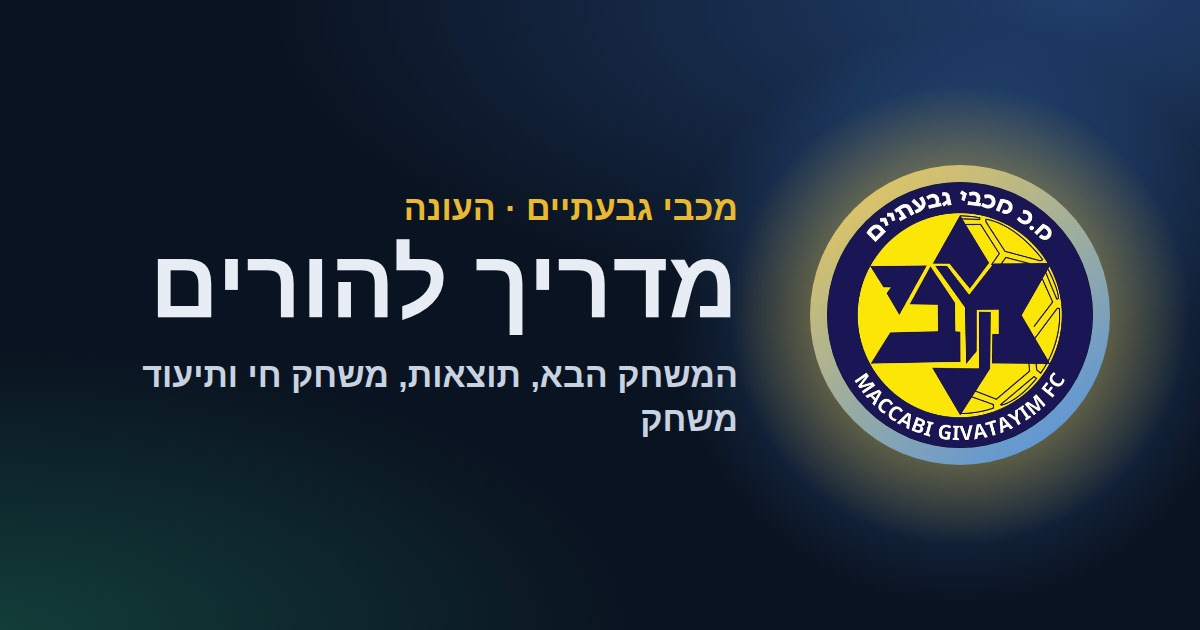
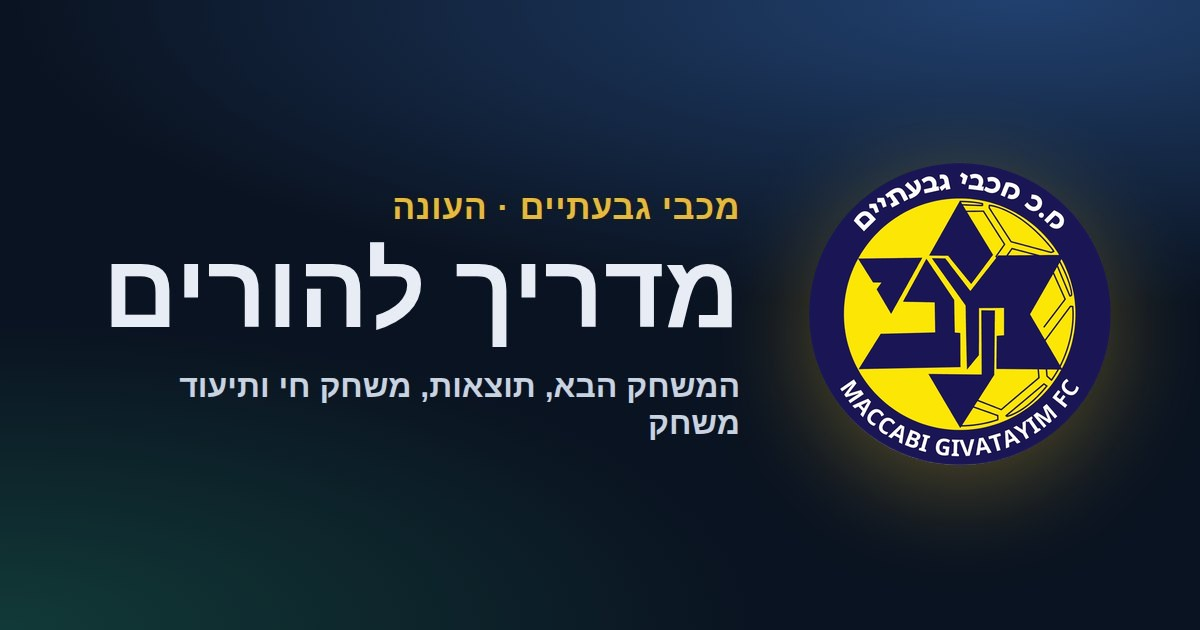
Guide previews: the original design, only the crest sharper
The owner wants the link previews as they were, without the ring and the
glow the last change put round the crest. The images are the originals
with the new crest pasted over the old one, in its measured place;
tools/make-og.py does that and replaces make-og.mjs. og:image moves to
?v=3.

Claude-Session: https://claude.ai/code/session_01EbGhheAWKgjzCeMNPeYt44

Changed region(s): [[0.0925, 0.1508, 1.0, 0.8444]]

diff --git a/docs/parent.html b/docs/parent.html
@@ -13,8 +13,8 @@
 <meta property="og:title" content="מדריך להורים">
 <meta property="og:description" content="התקנה, מה יש באפליקציה, צפייה במשחק חי, ותיעוד משחק כשהמנהל לא במגרש.">
 <meta property="og:url" content="https://lironcon2015-prog.github.io/MGivatayim/docs/parent.html">
-<meta property="og:image" content="https://lironcon2015-prog.github.io/MGivatayim/docs/og-parent.jpg?v=2">
-<meta property="og:image:secure_url" content="https://lironcon2015-prog.github.io/MGivatayim/docs/og-parent.jpg?v=2">
+<meta property="og:image" content="https://lironcon2015-prog.github.io/MGivatayim/docs/og-parent.jpg?v=3">
+<meta property="og:image:secure_url" content="https://lironcon2015-prog.github.io/MGivatayim/docs/og-parent.jpg?v=3">
 <meta property="og:image:type" content="image/jpeg">
 <meta property="og:image:width" content="1200">
 <meta property="og:image:height" content="630">

diff --git a/docs/coach.html b/docs/coach.html
@@ -13,8 +13,8 @@
 <meta property="og:title" content="מדריך למאמן">
 <meta property="og:description" content="התקנה, מה יש באפליקציה, וניהול דקות המשחק.">
 <meta property="og:url" content="https://lironcon2015-prog.github.io/MGivatayim/docs/coach.html">
-<meta property="og:image" content="https://lironcon2015-prog.github.io/MGivatayim/docs/og-coach.jpg?v=2">
-<meta property="og:image:secure_url" content="https://lironcon2015-prog.github.io/MGivatayim/docs/og-coach.jpg?v=2">
+<meta property="og:image" content="https://lironcon2015-prog.github.io/MGivatayim/docs/og-coach.jpg?v=3">
+<meta property="og:image:secure_url" content="https://lironcon2015-prog.github.io/MGivatayim/docs/og-coach.jpg?v=3">
 <meta property="og:image:type" content="image/jpeg">
 <meta property="og:image:width" content="1200">
 <meta property="og:image:height" content="630">

diff --git a/sw.js b/sw.js
@@ -2,7 +2,7 @@
    CACHE_VERSION must equal version.json and window._BUNDLE_VERSION in
    index.html. `node tools/bump.mjs` writes all three; tests/pwa.mjs fails if
    they drift apart. */
-const CACHE_VERSION = '1.29.4';
+const CACHE_VERSION = '1.29.5';
 const CACHE_NAME = 'mgivatayim-' + CACHE_VERSION;
 
 /* Everything the shell needs to open with no network. tests/pwa.mjs fails if

diff --git a/index.html b/index.html
@@ -19,7 +19,7 @@
 <link rel="stylesheet" href="./styles.css" />
 <!-- The running version. `node tools/bump.mjs` rewrites it together with
      version.json and sw.js; the updater compares it with version.json. -->
-<script>window._BUNDLE_VERSION = '1.29.4';</script>
+<script>window._BUNDLE_VERSION = '1.29.5';</script>
 </head>
 <body>
   <div id="app"></div>

diff --git a/tools/make-og.py b/tools/make-og.py
@@ -1,0 +1,22 @@
+# Puts assets/crest.png on the guides' link previews (docs/og-parent.jpg,
+# docs/og-coach.jpg — what WhatsApp shows for the link), in the crest's place.
+# python3 tools/make-og.py   — needs Pillow
+#
+# The owner wants the previews as they were designed, with only the crest
+# swapped: no ring and no new glow round it. The crest is an opaque circle,
+# so pasting it over the one already there replaces it whole; the place and
+# size were measured on the original images (a 298px circle at 960, 314).
+# After a new crest: run this, and bump ?v= on og:image in both guides —
+# WhatsApp keeps a preview by its URL.
+from pathlib import Path
+from PIL import Image
+
+ROOT = Path(__file__).resolve().parent.parent
+SIZE, AT = 302, (809, 163)
+
+crest = Image.open(ROOT / 'assets/crest.png').convert('RGBA').resize((SIZE, SIZE), Image.LANCZOS)
+for name in ('og-parent.jpg', 'og-coach.jpg'):
+    path = ROOT / 'docs' / name
+    card = Image.open(path).convert('RGBA')
+    card.alpha_composite(crest, AT)
+    card.convert('RGB').save(path, quality=90, optimize=True)

diff --git a/CLAUDE.md b/CLAUDE.md
@@ -47,7 +47,7 @@
 | `src/gallery.js`, `src/views/gallery.js` | הגלריה של הקבוצה: העלאה ל-Cloudinary, והמסך (ראו "הגלריה") |
 | `tools/bridge.gs` | הגשר (Apps Script) |
 | `tools/bump.mjs` | קידום גרסה |
-| `tools/make-og.mjs` | מייצר את תמונות התצוגה של המדריכים (`docs/og-*.jpg`) מהסמל (playwright) — לא לערוך אותן ידנית |
+| `tools/make-og.py` | מדביק את הסמל על תמונות התצוגה של המדריכים (`docs/og-*.jpg`, Pillow) — לא לערוך אותן ידנית |
 | `tools/make-fixtures.py` | מייצר את `docs/fixtures/*.xlsx` (`openpyxl`) — לא לערוך את הקבצים ידנית |
 | `docs/coach.html` | "מדריך למאמן" — דף עצמאי באתר (הגרסה בתחתית נקראת מ-`version.json`), עם תגיות og ותמונת תצוגה `docs/og-coach.jpg` (1200×630) לוואטסאפ (`…/MGivatayim/docs/coach.html`), לשליחה למאמן. שינוי במסכי המאמן → עדכון שלו |
 | `docs/parent.html` | "מדריך להורים" — אותו מבנה, בלי דקות, ועם תיעוד משחק בקוד שליטה כשהמנהל לא במגרש. שינוי במסך הלייב או בתיעוד → עדכון שלו |
@@ -468,8 +468,9 @@ placeholder בשדה ריק נראה כמו ערך שמור — זה מה שהס
 להפריד ביניהם, ואחרי שהאייקון הוחלף פעם בטעות לסמל — ביקש להחזיר. סמל חדש לא
 נוגע ב-`icons/`. הנתיב יכול להיקבע ב-`team.crest`; ברירת המחדל ב-`src/config.js`.
 
-סמל חדש → `tools/make-og.mjs` (תמונות התצוגה של המדריכים, הסמל בטבעת של הכותרת),
-ולהעלות את `?v=` בקישורי `og:image` בשני המדריכים — וואטסאפ שומר תמונה לפי הכתובת.
+סמל חדש → `tools/make-og.py`: מדביק אותו על תמונות התצוגה של המדריכים במקום הסמל
+הקודם — בלי טבעת ובלי זוהר חדש (בעל הריפו: העיצוב המקורי, רק הסמל החד) — ולהעלות
+את `?v=` בקישורי `og:image` בשני המדריכים. וואטסאפ שומר תמונה לפי הכתובת.
 
 ## צבע ושפה עיצובית
 
